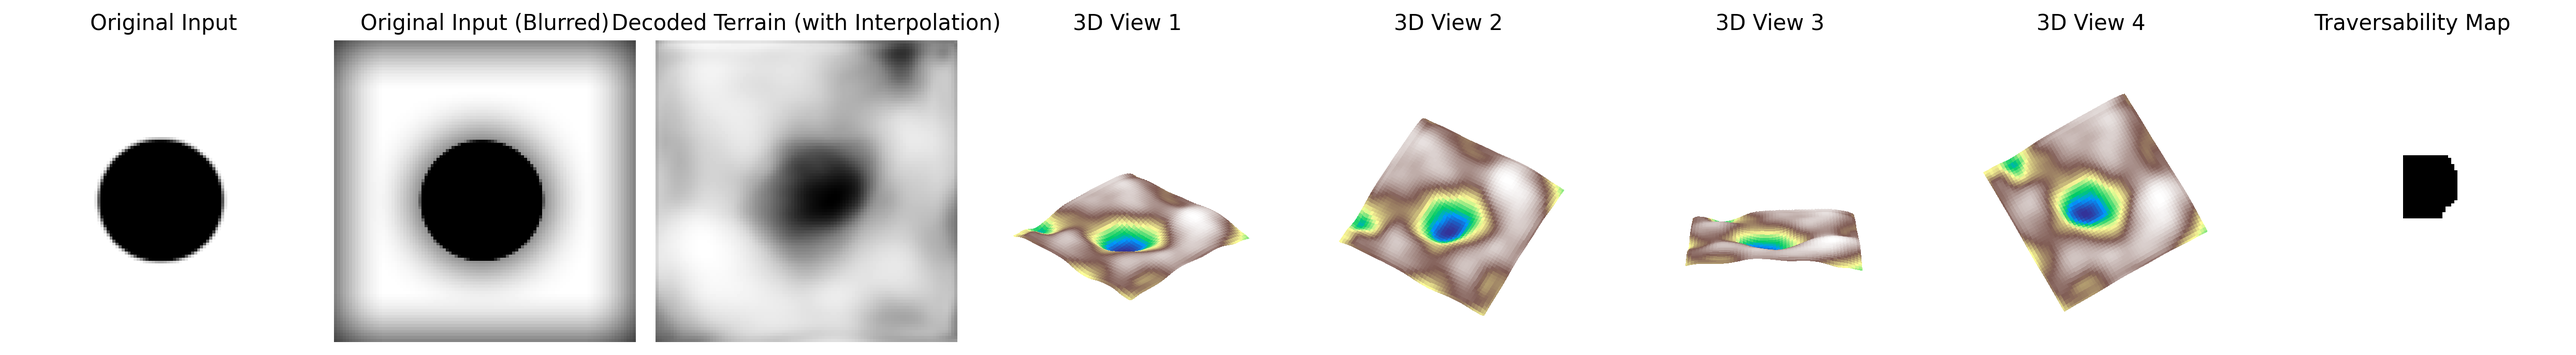
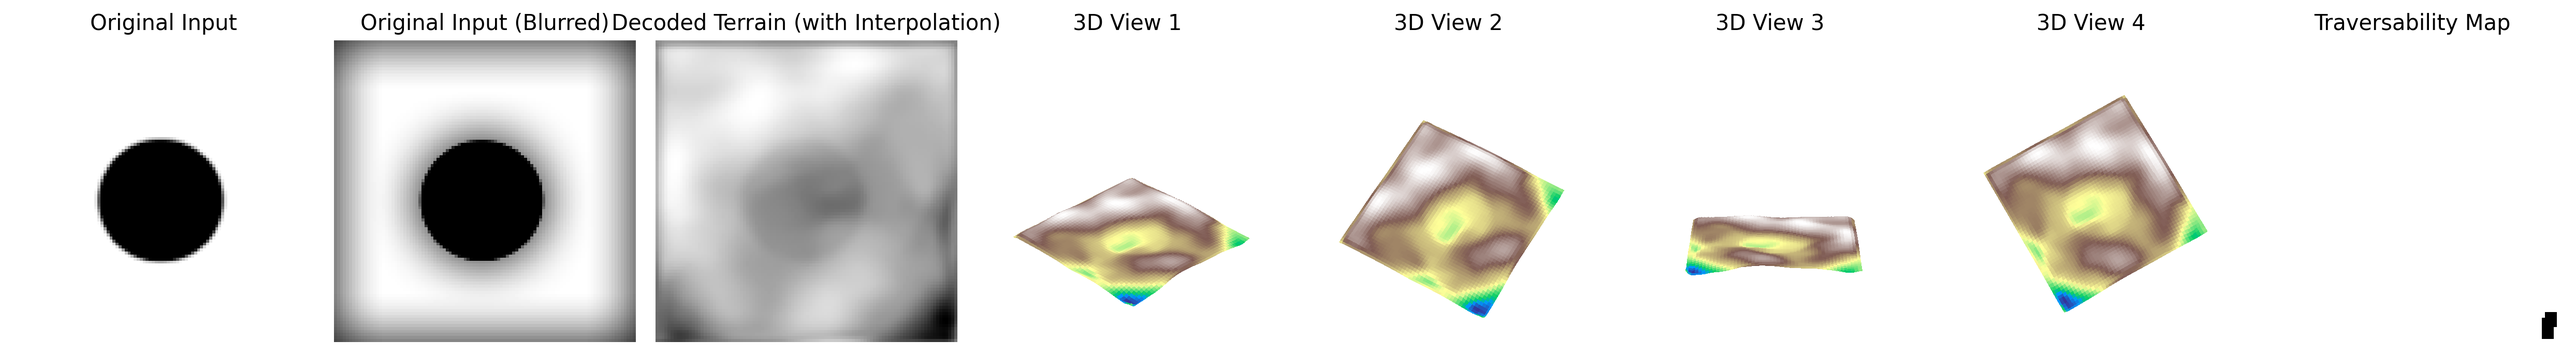
started working on training CVAE with traversability loss.
It looks a little fruitless, though further training will be done.

Added vectorized flood fill to replace slow CPU based BFS

diff --git a/main.py b/main.py
@@ -8,6 +8,8 @@ from torch import nn, optim
 from torch.nn import functional as F
 from torchvision import datasets, transforms
 from torchvision.utils import save_image
+from torchvision.utils import make_grid
+from PIL import Image, ImageDraw, ImageFont
 
 from betterconf import Config, field
 from betterconf.config import AbstractProvider
@@ -17,12 +19,14 @@ from terrain_dataset import TerrainDataset
 
 from classify_terrain_tensor import count_features_by_class, classify_terrain_tensor, terrain_counts_tensor
 
+from queue import Queue
+
 import json
 
 
 HYPERPARAMS_FILE = r"C:\Users\79140\PycharmProjects\TerrainVAE\hyperparams.json"
 
-checkpoint_path = "checkpoints/vae_cnn.pt"
+checkpoint_path = "checkpoints/vae_cnn_classic.pt"
 
 
 class JSONProvider(AbstractProvider):
@@ -94,10 +98,84 @@ try:
 except FileNotFoundError:
     print("Dataset not found!")
 
+n_fixed = min(8, len(dataset))  # fixed examples
+fixed_data = torch.stack([dataset[i] for i in range(n_fixed)]).unsqueeze(1).to(device)  # [n,1,H,W]
+
 # test_loader = torch.utils.data.DataLoader(dataset,
 #                                          batch_size=hpcfg.batch_size,
 #                                          shuffle=False,
 #                                          drop_last=True)
+
+
+# Compute traversability map using BFS with a threshold
+def compute_traversable(grid, thresh=0.1, max_iters=1000):
+    """
+    Vectorized flood fill on GPU.
+    grid: 2D tensor [H,W] on any device, values in [0,1].
+    Returns tensor of same shape: 0.0 reachable, 1.0 unreachable.
+    """
+    H, W = grid.shape
+    device = grid.device
+
+    # Initialize reachable mask
+    min_val = grid.min()
+    reachable = (grid == min_val)
+
+    # Structuring element (4-neighbor)
+    kernel = torch.tensor([[0,1,0],
+                           [1,0,1],
+                           [0,1,0]], device=device).float().unsqueeze(0).unsqueeze(0)
+
+    grid = grid.unsqueeze(0).unsqueeze(0)  # [1,1,H,W]
+    reachable = reachable.unsqueeze(0).unsqueeze(0).float()
+
+    for _ in range(max_iters):
+        # dilate reachable region
+        neigh = F.conv2d(reachable, kernel, padding=1)
+        # candidate pixels: adjacent to reachable ones
+        mask = (neigh > 0) & (reachable == 0)
+
+        # check height constraint
+        diff = torch.abs(grid - grid[reachable.bool()].mean())  # local diff approx
+        new_reachable = (mask & (diff <= thresh))
+        if not new_reachable.any():
+            break
+        reachable[new_reachable] = 1.0
+
+    return 1.0 - reachable.squeeze(0).squeeze(0)
+
+
+def batch_traversable(batch, thresh=0.1, max_iters=200):
+    """
+    batch: [B,1,H,W]
+    returns: [B,1,H,W]
+    """
+    B, _, H, W = batch.shape
+    device = batch.device
+
+    min_vals = batch.view(B, -1).min(dim=1)[0].view(B,1,1,1)
+    reachable = (batch == min_vals).float()
+
+    kernel = torch.tensor([[0,1,0],
+                           [1,0,1],
+                           [0,1,0]], device=device).float().view(1,1,3,3)
+
+    grid = batch.clone()
+
+    # Flatten batch into channels for grouped convolution
+    x = reachable.view(1, B, H, W)
+
+    for _ in range(max_iters):
+        neigh = F.conv2d(x, kernel.repeat(B,1,1,1), padding=1, groups=B)
+        mask = (neigh > 0) & (x == 0)
+        diff = torch.abs(grid - grid * reachable).masked_fill(~mask.view(B,1,H,W), float('inf'))
+        new = (mask.view(B,1,H,W) & (diff <= thresh)).float()
+        if new.sum() == 0:
+            break
+        reachable = torch.clamp(reachable + new, 0, 1)
+        x = reachable.view(1, B, H, W)
+
+    return 1.0 - reachable
 
 
 class CVAE(nn.Module):
@@ -222,8 +300,12 @@ optimizer = optim.Adam(model.parameters(), lr=hpcfg.learning_rate)
 
 
 # Reconstruction + KL divergence losses summed over all elements and batch
-def loss_function(recon_x, x, mu, logvar):
-    BCE = F.binary_cross_entropy(recon_x, x, reduction='sum')
+def loss_function(recon_x, travmaps, x, mu, logvar, kt=0.5, kOriginalBCE=0.5):
+    BCE = F.binary_cross_entropy(recon_x, x, reduction='sum')*kOriginalBCE
+
+    x_binary = batch_traversable(x)  # original travmaps
+
+    BCE_travmaps = F.binary_cross_entropy(travmaps, x_binary, reduction='sum')
 
     # see Appendix B from VAE paper:
     # Kingma and Welling. Auto-Encoding Variational Bayes. ICLR, 2014
@@ -232,7 +314,52 @@ def loss_function(recon_x, x, mu, logvar):
 
     KLD = -0.5 * torch.sum(1 + logvar - mu.pow(2) - logvar.exp())
 
-    return BCE + KLD, BCE, KLD
+    return BCE + KLD + kt*BCE_travmaps, BCE, KLD, BCE_travmaps*kt
+
+
+def save_combined_with_labels(data, recon_batch, travmaps, save_path, n=8):
+    data = data[:n].cpu()
+    recon_batch = recon_batch[:n].detach().cpu()
+    travmaps = travmaps[:n].detach().cpu()
+    extracted = batch_traversable(data)
+
+    img_h, img_w = hpcfg.img_size, hpcfg.img_size
+    # Convert each tensor [1,H,W] to PIL Image
+    def tensor_to_pil(t):
+        t = t.squeeze(0).numpy() * 255
+        return Image.fromarray(t.astype('uint8')).convert("RGB")
+
+    rows = []
+    labels = ["Orig", "Recon", "Trav", "Extr"]
+    for i in range(n):
+        imgs = [
+            tensor_to_pil(data[i]),
+            tensor_to_pil(recon_batch[i]),
+            tensor_to_pil(travmaps[i]),
+            tensor_to_pil(extracted[i])
+        ]
+        # Stack vertically
+        row = Image.new("RGB", (img_w, img_h*4))
+        for j, im in enumerate(imgs):
+            row.paste(im, (0, j*img_h))
+        # Draw labels on left
+        draw = ImageDraw.Draw(row)
+        try:
+            font = ImageFont.truetype("arial.ttf", 12)
+        except:
+            font = ImageFont.load_default()
+        for j, lbl in enumerate(labels):
+            draw.text((0, j*img_h+2), lbl, fill=(255,0,0), font=font)
+        rows.append(row)
+
+    # Stack all rows horizontally
+    total_w = img_w * n
+    total_h = img_h * 4
+    combined = Image.new("RGB", (total_w, total_h))
+    for i, row in enumerate(rows):
+        combined.paste(row, (i*img_w, 0))
+
+    combined.save(save_path)
 
 
 def train(epoch):
@@ -242,10 +369,23 @@ def train(epoch):
         data = data.to(device)
         optimizer.zero_grad()
         recon_batch, mu, logvar, cond = model(data)
-        loss, _, KLD = loss_function(recon_batch, data, mu, logvar)
+
+        # compute traversability maps for all reconstructions in batch
+        with torch.no_grad():
+            traversability_maps = batch_traversable(recon_batch, thresh=0.1, max_iters=200)
+
+        loss, _, KLD, _ = loss_function(recon_batch, traversability_maps, data, mu, logvar)
         loss.backward()
         train_loss += loss.item()
         optimizer.step()
+
+        if batch_idx == 0:
+            n = n_fixed
+            traversability_maps = batch_traversable(recon_batch, thresh=0.1, max_iters=200)
+            save_combined_with_labels(data, recon_batch, traversability_maps,
+                                      r"C:\Users\79140\PycharmProjects\TerrainVAE\results\reconstruction_" + str(
+                                          epoch) + ".png", n=n)
+
         if batch_idx % hpcfg.log_interval == 0:
             print('Train Epoch: {} [{}/{} ({:.0f}%)]\tLoss: {:.6f}\t KLD: {:.6f}'.format(
                 epoch, batch_idx * len(data), len(train_loader.dataset),
@@ -293,13 +433,13 @@ if __name__ == "__main__":
 
             sample = model.decode(sample, cond).cpu()
             save_image(sample.view(64, 1, hpcfg.img_size, hpcfg.img_size),
-                       'results/sample_' + str(epoch) + '.png')
+                       r"C:\Users\79140\PycharmProjects\TerrainVAE\results\sample_" + str(epoch) + '.png')
 
         torch.save({
             "epoch": epoch,
             "model_state_dict": model.state_dict(),
             "optimizer_state_dict": optimizer.state_dict(),
             "loss": None,
-        }, f"checkpoints/vae_cnn.pt")
+        }, r"C:\Users\79140\PycharmProjects\TerrainVAE\checkpoints\vae_cnn.pt")
 
         print("Weights saved!")

diff --git a/usage.py b/usage.py
@@ -64,36 +64,42 @@ recon_t = recon.unsqueeze(0).unsqueeze(0).cpu()
 recon_mix = torch.lerp(x_blur, recon_t, 0.95).squeeze().cpu().numpy()
 
 # Now compute traversability map using BFS with a threshold
-def compute_traversable(grid, thresh=0.015):
+def compute_traversable(grid, thresh=0.015, max_iters=1000):
     """
-    grid: 2D torch tensor, values in [0,1]
-    thresh: threshold for reachability
-    returns: 2D torch tensor, 0.0 reachable, 1.0 unreachable
+    Vectorized flood fill on GPU.
+    grid: 2D tensor [H,W] on any device, values in [0,1].
+    Returns tensor of same shape: 0.0 reachable, 1.0 unreachable.
     """
     H, W = grid.shape
-    visited = torch.ones_like(grid)  # initialize all unreachable
+    device = grid.device
+
+    # Initialize reachable mask
     min_val = grid.min()
-    roots = torch.nonzero(grid == min_val) # lowest points as roots
+    reachable = (grid == min_val)
 
-    q = Queue()
-    for r in roots:
-        r = tuple(r.tolist())
-        q.put(r)
-        visited[r] = 0.0  # mark as reachable
+    # Structuring element (4-neighbor)
+    kernel = torch.tensor([[0,1,0],
+                           [1,0,1],
+                           [0,1,0]], device=device).float().unsqueeze(0).unsqueeze(0)
 
-    # 4-connectivity (up, down, left, right)
-    dirs = [(-1,0),(1,0),(0,-1),(0,1)]
+    grid = grid.unsqueeze(0).unsqueeze(0)  # [1,1,H,W]
+    reachable = reachable.unsqueeze(0).unsqueeze(0).float()
 
-    while not q.empty():
-        y, x = q.get()
-        for dy, dx in dirs:
-            ny, nx = y+dy, x+dx
-            if 0 <= ny < H and 0 <= nx < W:
-                if visited[ny, nx] == 1.0 and abs(grid[ny, nx] - grid[y, x]) <= thresh:
-                    visited[ny, nx] = 0.0
-                    q.put((ny, nx))
+    for _ in range(max_iters):
+        # dilate reachable region
+        neigh = F.conv2d(reachable, kernel, padding=1)
+        # candidate pixels: adjacent to reachable ones
+        mask = (neigh > 0) & (reachable == 0)
 
-    return visited
+        # check height constraint
+        diff = torch.abs(grid - grid[reachable.bool()].mean())  # local diff approx
+        new_reachable = (mask & (diff <= thresh))
+        if not new_reachable.any():
+            break
+        reachable[new_reachable] = 1.0
+
+    return 1.0 - reachable.squeeze(0).squeeze(0)
+
 
 traversable_map = compute_traversable(torch.tensor(recon_mix, dtype=torch.float32))
 
